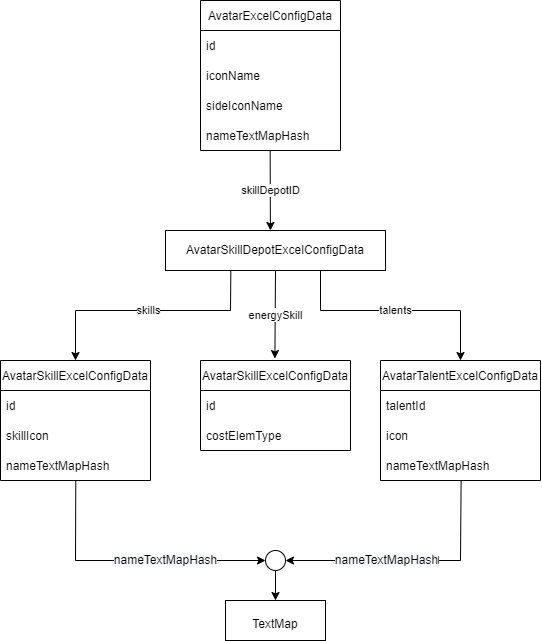
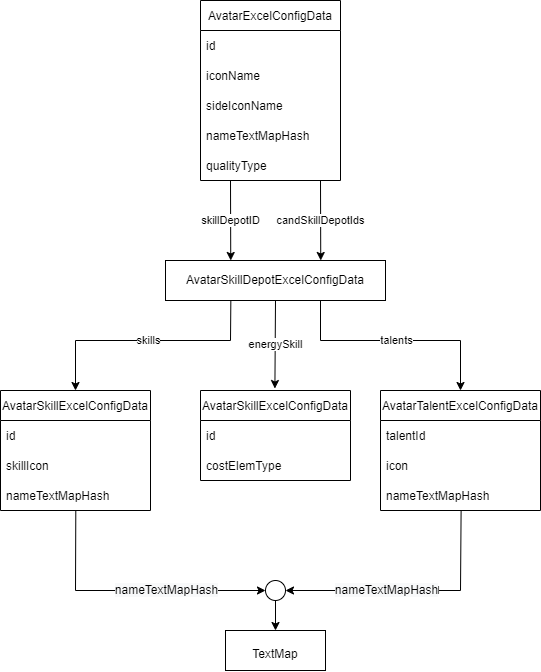
Update README.md

diff --git a/README.md b/README.md
@@ -14,11 +14,17 @@ Yon can see in [exports](./exports/) folder.
 In every 00:00 (UTC+7) data will fetch last commit from [Dimbreath/GenshinData](https://github.com/Dimbreath/GenshinData) 
 and check if commit is different from last commit. If different, it will update data take a 3 - 5 minutes to update data.
 
+## ❓ Why avatar id has "10000005-503" or "10000007-702"?
+In default character player. It's can't be to detect what is character element? so I join AvatarID and ElemenetID (candSkillDepotIds) like picture this:
+
+![ID-ELEMENTS](./ID_ELMENTS.png)
+
+And yeah, I use pattern to detect character element. from repo [EnkaNetwork/API-docs](https://github.com/EnkaNetwork/API-docs) store 😅.
 
 ## ❓ Can I use this repo for something else?
 Sure.
 
-## ❓ How to join character data?
+## ❓ How to link character data like skill, talents and more?
 You can see in picture this:
 
 ![LINKING CHARACTER](./CHARACTERS.png)
